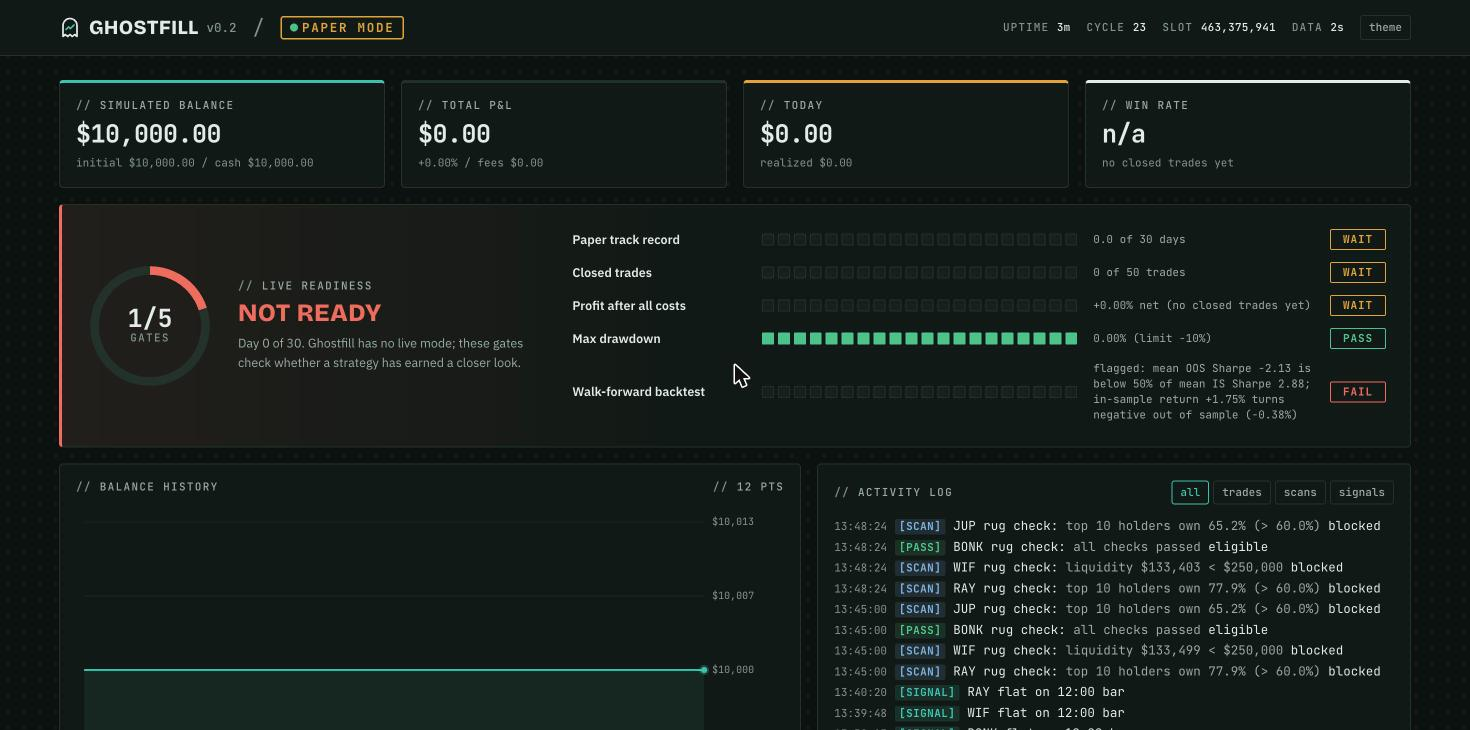
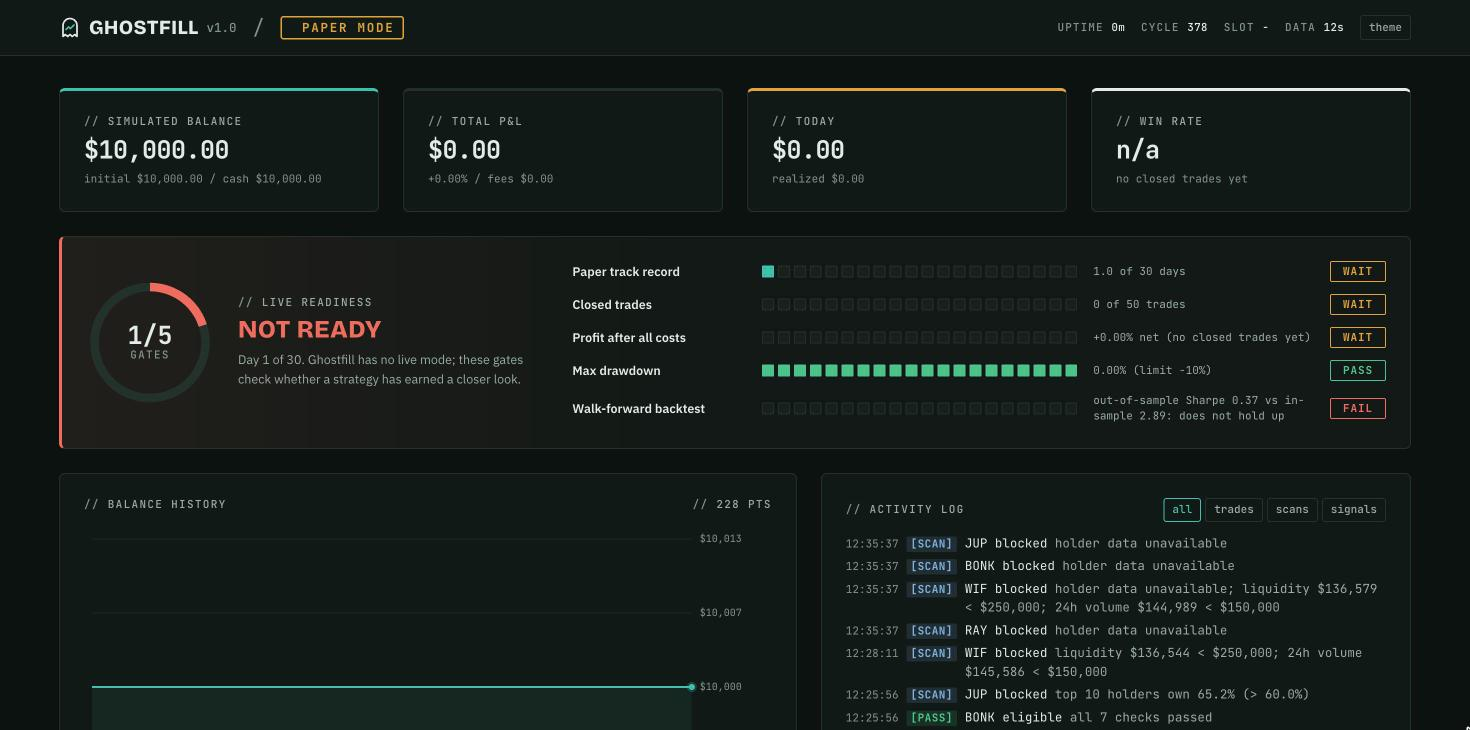
Release 1.0.0 with launch README and fresh screenshots
Bumps package, image, extension and dashboard to 1.0.0; README opens with the
tagline, badges, screenshots and a three-command quick start, and documents
that the RugCheck fallback is off by default.

diff --git a/src/ghostfill/service/static/dashboard.html b/src/ghostfill/service/static/dashboard.html
@@ -172,7 +172,7 @@ main{max-width:1400px;margin:0 auto;padding:var(--s-6) var(--s-5);display:flex;f
   <div class="bar-in">
     <div class="brand">
       <svg width="22" height="22" viewBox="0 0 22 22" aria-hidden="true"><path d="M4 20 V9 a7 7 0 0 1 14 0 V20 l-2.3 -2 -2.4 2 -2.3 -2 -2.3 2 -2.4 -2 Z" fill="none" stroke="var(--text)" stroke-width="1.7" stroke-linejoin="round"/><path d="M7 13 L9.5 10.5 L11.5 12 L15 8.5" fill="none" stroke="var(--accent)" stroke-width="1.7" stroke-linecap="round" stroke-linejoin="round"/></svg>
-      Ghostfill <small>v0.2</small>
+      Ghostfill <small>v1.0</small>
     </div>
     <span class="slash">/</span>
     <div class="mode"><span class="pill"><span class="dot" id="dot"></span>Paper mode</span></div>

diff --git a/src/ghostfill/data/http.py b/src/ghostfill/data/http.py
@@ -77,7 +77,7 @@ class HttpClient:
         rate_limit_min_wait: float = 10.0,
     ):
         self._client = httpx.AsyncClient(
-            timeout=timeout, transport=transport, headers={"user-agent": "ghostfill/0.1 (paper trading research)"}
+            timeout=timeout, transport=transport, headers={"user-agent": "ghostfill/1.0 (paper trading research)"}
         )
         self.max_retries = max_retries
         self.backoff_base = backoff_base

diff --git a/src/ghostfill/__init__.py b/src/ghostfill/__init__.py
@@ -1,4 +1,4 @@
 """ghostfill: paper trading of Solana token strategies on live mainnet data. Simulation only."""
 
 MODE = "PAPER"
-__version__ = "0.1.0"
+__version__ = "1.0.0"

diff --git a/README.md b/README.md
@@ -1,8 +1,43 @@
 # Ghostfill
 
-Paper trading for Solana token strategies on live mainnet market data.
-It runs continuously in Docker, records simulated fills to SQLite, and
-exposes a read-only status API.
+[![tests](https://github.com/gregorygerman777-hub/ghostfill/actions/workflows/tests.yml/badge.svg)](https://github.com/gregorygerman777-hub/ghostfill/actions/workflows/tests.yml)
+![python](https://img.shields.io/badge/python-3.11%20%7C%203.12%20%7C%203.13-3fc1ad)
+![mode](https://img.shields.io/badge/mode-paper%20only-e0a43a)
+![license](https://img.shields.io/badge/license-MIT-97aba4)
+
+**Every bot shows you its wins. Ghostfill shows you the truth.**
+
+Ghostfill paper-trades Solana strategies on live mainnet data: real prices, real
+liquidity, real pool, platform and priority fees, size-based slippage and random
+transaction failures. Only the fill is a ghost. It rug-checks every token, logs
+every decision, and keeps a Live Readiness score your strategy has to earn before
+you risk a cent.
+
+![Ghostfill dashboard](docs/dashboard.jpg)
+
+- **7-point rug check** on every token (mint and freeze authority, risky Token-2022 extensions, top-holder concentration, liquidity, volume, pool age), every rejection logged with its reason
+- **Live activity log**: `[SCAN]` `[PASS]` `[SIGNAL]` `[SKIP]` `[FILL]` `[EXIT]`
+- **Watchlist** charts each token with the strategy's own indicator lines
+- **Strategy lab**: four strategy families ranked daily by walk-forward, out-of-sample results
+- **Live Readiness**: 30 days, 50 trades, profit after costs, a drawdown limit, an out-of-sample check
+- **Cannot touch your wallet**: no keys, no signing, no transactions, enforced by a test that scans the codebase
+- Docker in one command, a dashboard and a Chrome extension
+
+![Watchlist](docs/watchlist.jpg)
+
+## Quick start
+
+```bash
+git clone https://github.com/gregorygerman777-hub/ghostfill.git && cd ghostfill
+cp .env.example .env          # put your Solana RPC URL in .env
+docker compose up -d --build  # then open http://localhost:8000
+```
+
+A provider RPC (Helius, Triton, QuickNode, ...) is recommended: the public
+endpoint rate-limits the top-holder lookup, and without holder data every token
+fails the rug check.
+
+## Honest by design
 
 **This is a simulation.** It never signs or submits a transaction, holds no
 keys, has no wallet code, and has no live trading mode. A test
@@ -12,8 +47,8 @@ allows read methods (`getAccountInfo`, `getMultipleAccounts`,
 `getTokenSupply`, `getTokenLargestAccounts`, `getSlot`, `getHealth`).
 
 > **Warning: most strategies lose money after costs.** Fees, slippage, failed
-> transactions and MEV eat small edges. The two example strategies here lose
-> money in the backtest below. Nothing in this project predicts or guarantees
+> transactions and MEV eat small edges. None of the bundled strategies holds up
+> out of sample in our tests. Nothing in this project predicts or guarantees
 > profit, and a good paper result does not mean a strategy would make money
 > with real funds.
 
@@ -27,6 +62,10 @@ ghostfill/
 ├── config/
 │   ├── config.yaml             MA crossover (default)
 │   └── zscore.yaml             z-score mean reversion
+├── .env.example                RPC_URL and options for docker compose
+├── .github/workflows/          CI: tests on Python 3.11 to 3.13, Docker build
+├── docs/                       screenshots
+├── marketing/                  launch copy draft
 ├── scripts/setup.sh            one-shot local setup, tests and backtest
 ├── extension/                  Chrome extension (badge + popup) for the local API
 ├── src/ghostfill/
@@ -202,15 +241,17 @@ even before any buy signal.
 Install: open `chrome://extensions`, turn on **Developer mode**, click **Load unpacked**, and choose the
 `extension` folder.
 
-## Holder data fallback
+## Holder data
 
-The public Solana RPC rate-limits `getTokenLargestAccounts`. When the RPC lookup
-fails, the screen falls back to RugCheck's public token report
-(`screen.holder_fallback: rugcheck`; set `none` to disable). The report must be
-for the same mint, and the source is recorded with each verdict (`holders via
-rpc` or `holders via rugcheck`). After a rate limit the RPC lookup is skipped for
-30 minutes. Missing data still fails closed, and screens with missing data are
-retried after `retry_unavailable_seconds`.
+Top-holder data comes from `RPC_URL` (`getTokenLargestAccounts`). The public
+Solana RPC rate-limits that call, so use a provider endpoint. After a rate limit
+the lookup is skipped for 30 minutes rather than retried. An optional fallback to
+RugCheck's public token report is available (`screen.holder_fallback: rugcheck`)
+and is **off by default**; when on, the report must be for the same mint and the
+source is shown with each verdict. The last good holder list is reused for up to
+6 hours (saved to disk, so it survives restarts), and only if its source is still
+enabled. Missing data fails closed, and screens with missing data are retried
+after `retry_unavailable_seconds`.
 
 ## Strategy research and token discovery
 
@@ -321,3 +362,8 @@ restart recovery, and the read-only API.
   fetch takes a minute or two. Later runs read the Parquet cache.
 * One pool per token (the deepest by liquidity) is used for prices and bars.
 * The public Solana websocket drops connections now and then; the slot stream reconnects with backoff.
+
+## License
+
+MIT. See [LICENSE](LICENSE). Ghostfill is a simulator for research and education; it is
+not financial advice and does not trade real funds.
